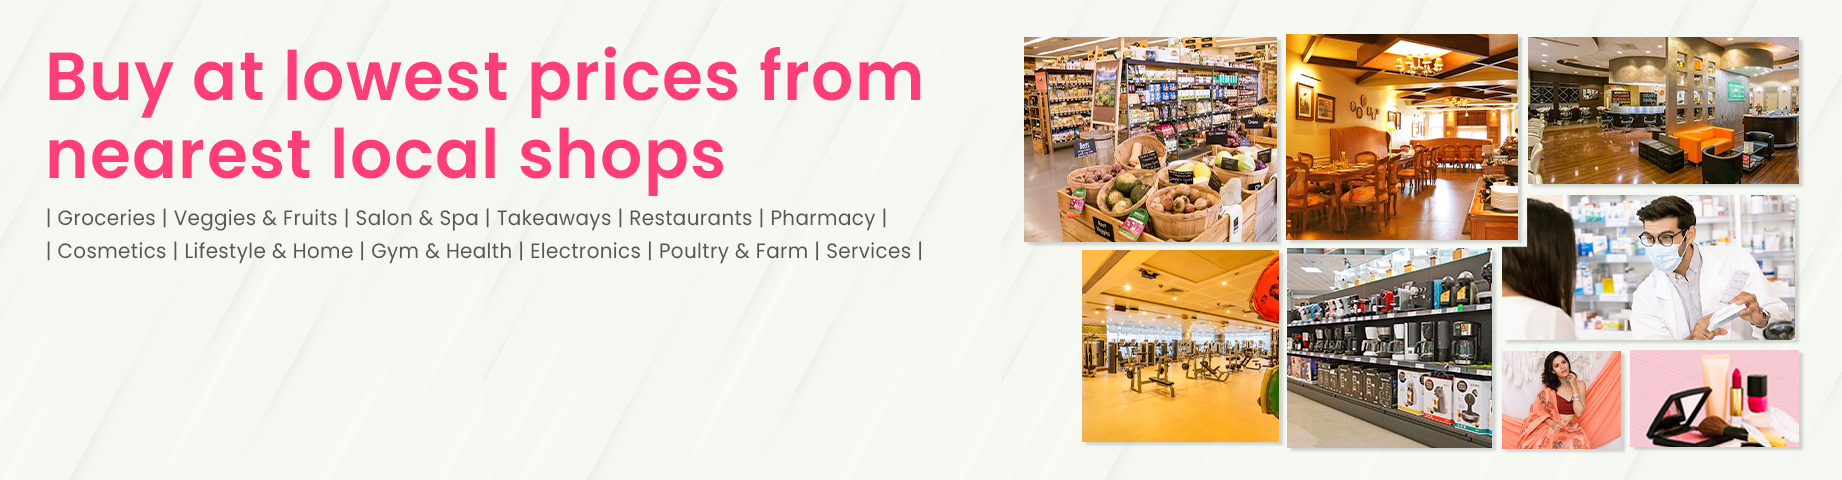
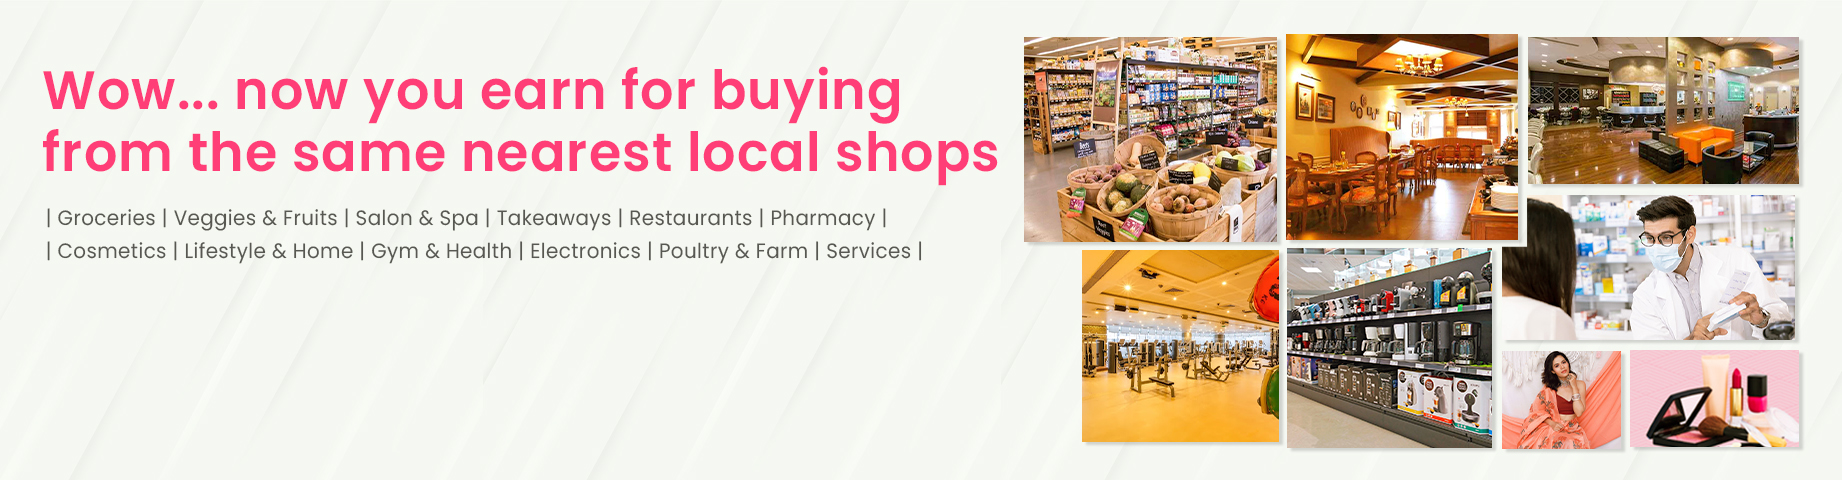
dropdown img

Changed region(s): [[0.0, 0.0938, 0.557, 0.4062]]

diff --git a/shop-rest/src/components/home-page-header/HeaderMiddle.tsx b/shop-rest/src/components/home-page-header/HeaderMiddle.tsx
@@ -168,7 +168,6 @@ export default function HeaderMiddle() {
 
     const truncate = (txt:any, n:number) => {
       return  txt.length > 10 ? txt.substring(0, n) : txt
-
     }
 
     const {getLocation} =useLocation()
@@ -299,12 +298,13 @@ export default function HeaderMiddle() {
                                        <div className='  border-red-400 flex w-full'>
                                            <div className='flex flex-col'>
                                                <h4 className='block lg:hidden text-2xl md:text-3xl lg:text-4xl mx-4 sm:mx-16 md:mx-16 mt-8 text-magenta font-heading font-semibold'>
-                                                   Buy at lowest prices from nearest local shops
+                                                   Wow..now you earn for buying from the same nearest local shops
                                                </h4>
                                                <div className=''>
-                                                   <p className=' lg:hidden flex mx-4  sm:mx-16 md:mx-16 mt-4 font-semibold items-center text-xs xs+:text-sm sm:text-sm text-gray-700'>| Groceries | Veggies & Fruits | Salon & Spa | Takeaways | Restaurants | Pharmacy |</p>
-                                                   <p className=' lg:hidden flex mx-4 sm:mx-16 md:mx-16 mt-0 font-semibold items-center text-xs xs+:text-sm sm:text-sm text-gray-700'>| Cosmetics | Lifestyle & Home | Gym & Health | Electronics | Poultry & Farm | Services |</p>
-                                                   
+                                                   <p className=' lg:hidden flex mx-4  sm:mx-16 md:mx-16 mt-4 font-semibold items-center text-xs xs+:text-sm sm:text-sm text-gray-700'>
+                                                       | Groceries | Cosmetics | Veggies & Fruits | Salon & Spa | Takeaways | Restaurants | Electronics | Pharmacy |</p>
+                                                   <p className=' lg:hidden hidden md:flex mx-4 sm:mx-16 md:mx-16 mt-0 font-semibold items-center text-xs xs+:text-sm sm:text-sm text-gray-700'>
+                                                       | Cosmetics | Lifestyle & Home | Gym & Health | Electronics | Poultry & Farm | Services |</p>
                                                </div>
                                            </div>
                                            <img src='/drop-down.jpg' className='hidden lg:block md:relative object-fill md:object-contain'/>
@@ -322,7 +322,7 @@ export default function HeaderMiddle() {
                             {/* <img src='/drop-down.jpg' className='relative   top-0 object-contain'/> */}
                             
                             <div id='location-input' style={{zIndex: 0}} className='absolute flex flex-col justify-center 
-                                       w-full lg:w-full    items-center  pt-36  sm:pt-20 md:pt-4 lg:pt-0 space-y-6 ml-0 mx-3 sm:mx-16 md:ml-16 lg:ml-6 xl:ml-8 2xl:ml-10 lg:mt-80'> 
+                                       w-full lg:w-full    items-center  pt-40 sm:pt-20 md:pt-20 lg:pt-0 space-y-6 ml-0 mx-3 sm:mx-16 md:ml-16 lg:ml-6 xl:ml-8 2xl:ml-10 lg:mt-80'> 
                                           
                                 <div  style = {{zIndex: 1000}}  
                                       className='w-full'> 
@@ -330,14 +330,22 @@ export default function HeaderMiddle() {
                                                               address  = {getLocation?.formattedAddress} /> 
                                 </div>
         
-                                <div style={{zIndex: 1000}}  className='w-full'> 
+                                <div style={{zIndex: 1000}}  className='w-full '> 
                                      <GetCurrentLocation onChange = {changeLocation} />  
+                                     {/* <span className='text-gray-600 font-semibold ml-10'>
+                                        <span className=' mr-10 text-xl font-semibold text-magenta'>
+                                            Or
+                                        </span>
+                                          Select Your City 
+                                     </span> */}
                                 </div>
                                 
 
                             </div>
+                            
 
-                            <div className='hidden lg:grid lg:grid-cols-6 xl:grid-cols-7 gap-2 lg:justify-between items-center -mt-12 xl:-mt-24'>
+                            <div className='hidden lg:grid lg:grid-cols-6 xl:grid-cols-7 gap-2 lg:justify-between items-center -mt-12 xl:-mt-22 2xl:-mt-24'>
+                                
                                 {cities.map((city, index) => (
                                     <CityButton onChange = {changeLocation} key={index} lat={city.lat} lng={city.lng} city={city.city} />
                                 ))}
@@ -345,6 +353,7 @@ export default function HeaderMiddle() {
                             </div>
 
                             <div className='grid grid-cols-1 xs+:grid-cols-2 sm:grid-cols-3 md:grid-cols-4 lg:hidden justify-evenly gap-y-3 overflow-y-scroll py-3 items-center w-full place-items-center mt-20 xs+:mt-32 sm:mt-36'>
+                                
                                 {cities.map((city, index) => (
                                     <CityButton onChange = {changeLocation} key={index} lat={city.lat} lng={city.lng} city={city.city} />
                                 ))}
@@ -369,7 +378,7 @@ export default function HeaderMiddle() {
                        <div className='flex items-center  '>
                             <span>  
                                 <h3 onClick={handleLocation}  
-                                    className='flex  text-gray-600 items-center text-xs sm:text-sm md:text-md lg:hidden  
+                                    className='flex text-gray-600 items-center text-xs sm:text-sm md:text-md lg:hidden  
                                                                 md:text-gray-600 mr-0 md:mr-0 md:text-md'>
 
                                     <CaretDown className='text-gray-500 mr-2 w-3 h-3 md:w-5 md:h-5'/> 

diff --git a/shop-rest/src/components/home-page-image-slider/ImageSlider.tsx b/shop-rest/src/components/home-page-image-slider/ImageSlider.tsx
@@ -164,7 +164,7 @@ export default function ImageSlider() {
 
           <div className="card flex relative w-full h-40 lg:h-72 xl+:h-80 2xl:h-72 md:h-64 ">
 
-            <img className="object-fill"
+          <Image layout='fill' objectFit='fill'
             //  className='rounded-md w-full opacity-90  h-40 lg:w-full lg:h-72 xl+:h-80 md:h-64  2xl:h-72 2xl:w-full space-x-9 object-fill object '  
                   src={'/banner/electronics.jpg'} 
                   />
@@ -173,10 +173,10 @@ export default function ImageSlider() {
 
           <div className="card flex relative w-full h-40 lg:h-72 xl+:h-80 2xl:h-72 md:h-64 ">
 
-              <img className="object-fill"
-              //  className='rounded-md w-full opacity-90  h-40 lg:w-full lg:h-72 xl+:h-80 md:h-64  2xl:h-72 2xl:w-full space-x-9 object-fill object '  
-                    src={'/banner/grocery-offer.jpg'} 
-                    />
+          <Image layout='fill' objectFit='fill'
+          //  className='rounded-md  w-full  h-40 lg:w-full lg:h-72 xl+:h-80 md:h-64 2xl:h-72 2xl:w-full object-fill space-x-9 '   
+              src={'/banner/grocery-offer.jpg'} 
+              />
 
           </div>
 

diff --git a/shop-rest/tailwind.config.js b/shop-rest/tailwind.config.js
@@ -135,7 +135,7 @@ module.exports = {
         'hero-pattern': "url('/shops-frame.jpg')",
         'pink-footer': "url('/footer.jpg')",
         'india': "url('/india.jpg')",
-        'drop-down': "url('/drop-down.jpg')",
+        'drop-down': "url('/drop-down1.jpg')",
 
         'dark-bg': "url('/dark-bg.jpg')",
         'collage': "url('/collage.jpeg')",
@@ -152,6 +152,7 @@ module.exports = {
  
         'other': '#e3342f',
        }),
+
 
       colors: {
         'magenta': '#e01d56',

diff --git a/shop-rest/src/components/ui/logo.tsx b/shop-rest/src/components/ui/logo.tsx
@@ -28,7 +28,7 @@ const Logo: React.FC<React.AnchorHTMLAttributes<{}>> = ({
           height: siteSettings.logo.height,
         }}
       > */}
-      <img src='/only-logo.png' className='lg:w-16 w-10' />
+      <img src='/only-logo.png' className='lg:w-20 w-12 sm:w-16' />
 
         {/* <img src={ siteSettings.logo.url} className='h-10 w-10' /> */}
       {/* </span> */}
